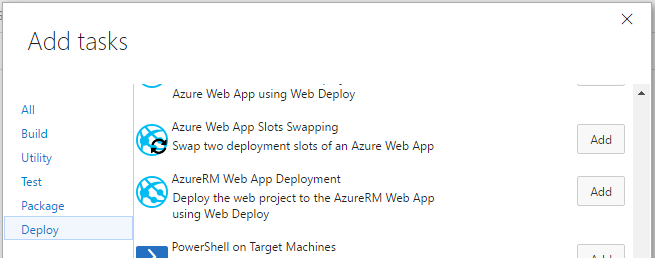
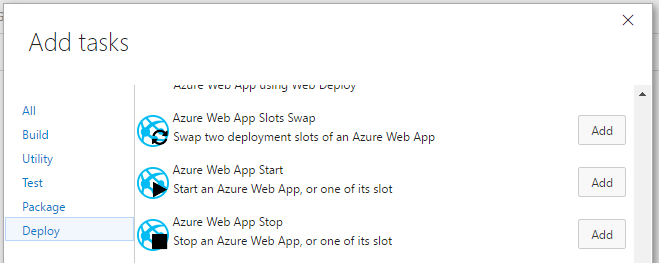
Add screenshots and review wording

diff --git a/Extension/overview.md b/Extension/overview.md
@@ -7,8 +7,8 @@ Visual Studio Team Services Build and Release Management extensions that help yo
 ## Tasks included
 
 * **[Azure Web App Slots Swap](https://github.com/geeklearningio/gl-vsts-tasks-azure/wiki/Azure-Web-App-Slots-Swap)**: Swap two deployment slots of an Azure Web App
-* **Start Azure Web App**: start an Azure Web App, or one of its slot
-* **Stop Azure Web App**: stop an Azure Web App, or one of its slot
+* **[Azure Web App Start](https://github.com/geeklearningio/gl-vsts-tasks-azure/wiki/Azure-Web-App-Start)**: Start an Azure Web App, or one of its slot
+* **[Azure Web App Stop](https://github.com/geeklearningio/gl-vsts-tasks-azure/wiki/Azure-Web-App-Stop)**: Stop an Azure Web App, or one of its slot
 * **Azure SQL Database Restore**: restore an Azure SQL Database to another Azure SQL Database on the same server
 
 ## Steps

diff --git a/README.md b/README.md
@@ -1,10 +1,12 @@
-![cistatus](https://geeklearning.visualstudio.com/_apis/public/build/definitions/f841b266-7595-4d01-9ee1-4864cf65aa73/37/badge)
-
 # Microsoft Azure Build and Release Tasks
 
 Visual Studio Team Services Build and Release Management extensions that help you to build and publish your applications on Microsoft Azure.
 
 [Learn more](https://github.com/geeklearningio/gl-vsts-tasks-azure/wiki) about this extension on the wiki!
+
+![cistatus](https://geeklearning.visualstudio.com/_apis/public/build/definitions/f841b266-7595-4d01-9ee1-4864cf65aa73/37/badge)
+
+![Icon](https://github.com/geeklearningio/gl-vsts-tasks-azure/blob/master/Extension/extension-icon.png)
 
 ## Tasks included
 
